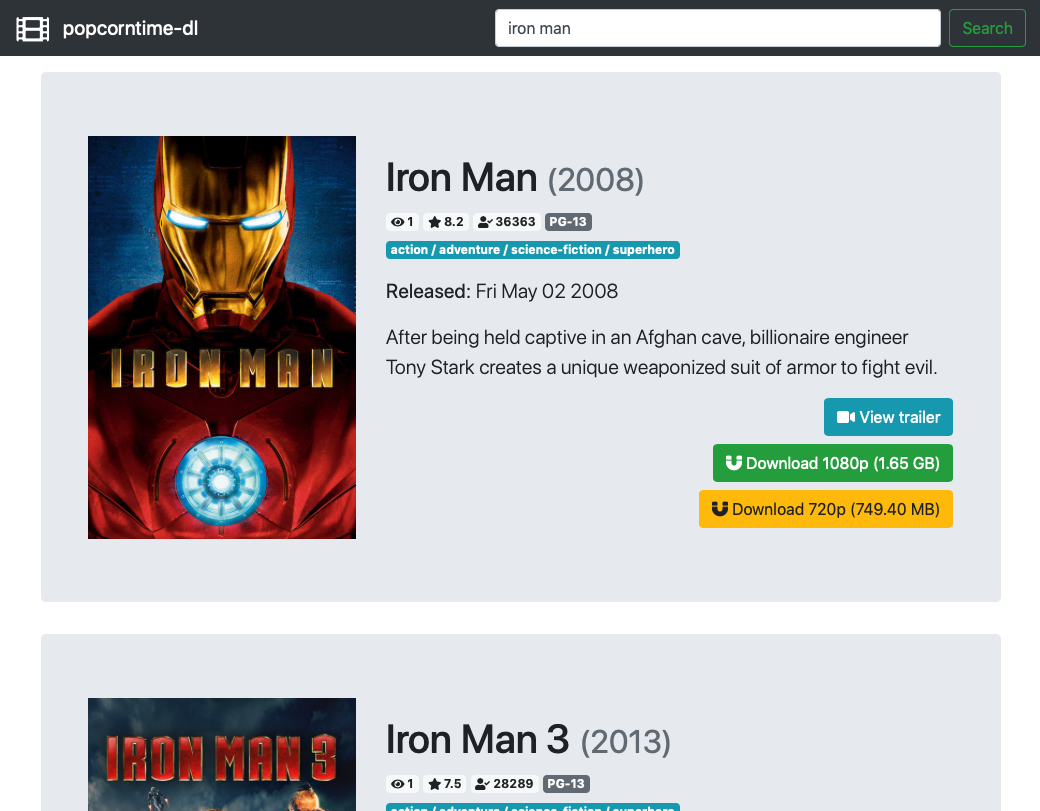
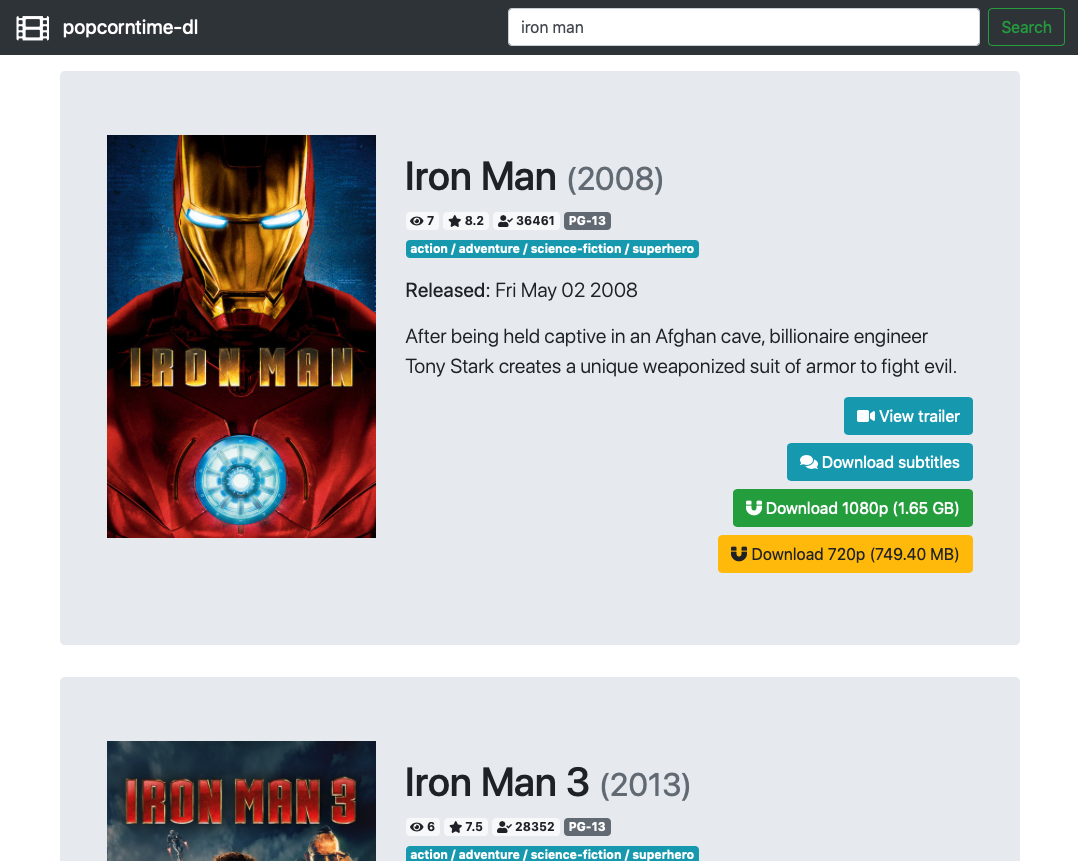
Add 'Download subtitles' button

Changed region(s): [[0.0, 0.0, 1.0, 1.0]]

diff --git a/_includes/components/jumbotron/bootstrap.html b/_includes/components/jumbotron/bootstrap.html
@@ -15,6 +15,13 @@
       </a>
     </div>
 
+    <div class="text-right my-2">
+      <a class="btn btn-info" href="{{ site.api.yify.host }}{{ site.api.yify.uri.movies }}" role="button" target="_blank">
+        <i class="fas fa-comments"></i>
+        Download subtitles
+      </a>
+    </div>
+
     ${ magnetLanguages`` }
 
   </div>

diff --git a/README.md b/README.md
@@ -14,5 +14,5 @@ bundle install
 Run server:
 
 ```bash
-bundle exec jekyll serve
+rake
 ```
